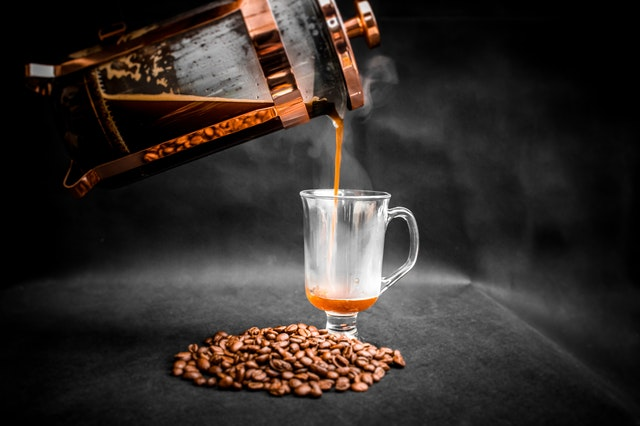
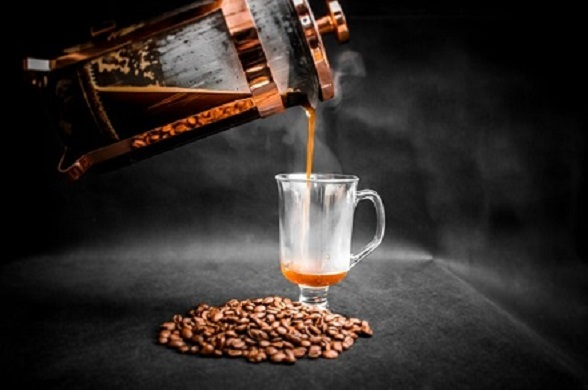
Resize images to enhance loading speed on index.html

diff --git a/assets/css/style.css b/assets/css/style.css
@@ -46,19 +46,6 @@ a.nav-link {
     padding-left: 1rem;
 }
 
-.carousel-caption>h1 {
-    font-size: 0.85rem;
-    font-family: 'playfair display', sans-serif;
-    font-weight: bold;
-}
-
-.carousel-caption>p {
-    font-size: 0.65rem;
-    font-family: 'playfair display', sans-serif;
-    font-style: italic;
-    font-weight: bold;
-}
-
 /** middle section of the index.html page **/
 .coffee-variety-title {
     font-family: 'playfair display', sans-serif;
@@ -91,8 +78,8 @@ a.nav-link {
     transform: translate(-50%, -50%);
     color: #ffffff;
     font-family: 'playfair display', sans-serif;
-    font-size: 1.5rem;
-    font-weight: bold;
+    font-size: 1rem;
+  
 }
 
 .center-text-coffee-three {
@@ -102,8 +89,8 @@ a.nav-link {
     transform: translate(-50%, -50%);
     color: #093145;
     font-family: 'playfair display', sans-serif;
-    font-size: 1.5rem;
-    font-weight: bold;
+    font-size: 1rem;
+  
 }
 
 .coffee-price{
@@ -345,6 +332,13 @@ button, input, optgroup, select, textarea {
     .contact-title-text .submit-btn {
         margin-right: 2.5rem;
     }
+
+    .carousel-caption>h1 {
+        font-size: 1.5rem;
+        font-family: 'sans-serif';
+        color: #F1FAEE;
+        margin-bottom: 2.5rem;
+    }
 }
 
 @media screen and (min-width: 768px) {
@@ -360,11 +354,6 @@ button, input, optgroup, select, textarea {
         font-size: 3rem;
         font-family: 'playfair display', sans-serif;
         color: #F1FAEE;
-        font-weight: bold;
-    }
-
-    .carousel-caption>p {
-        font-size: 1rem;
         font-weight: bold;
     }
 
